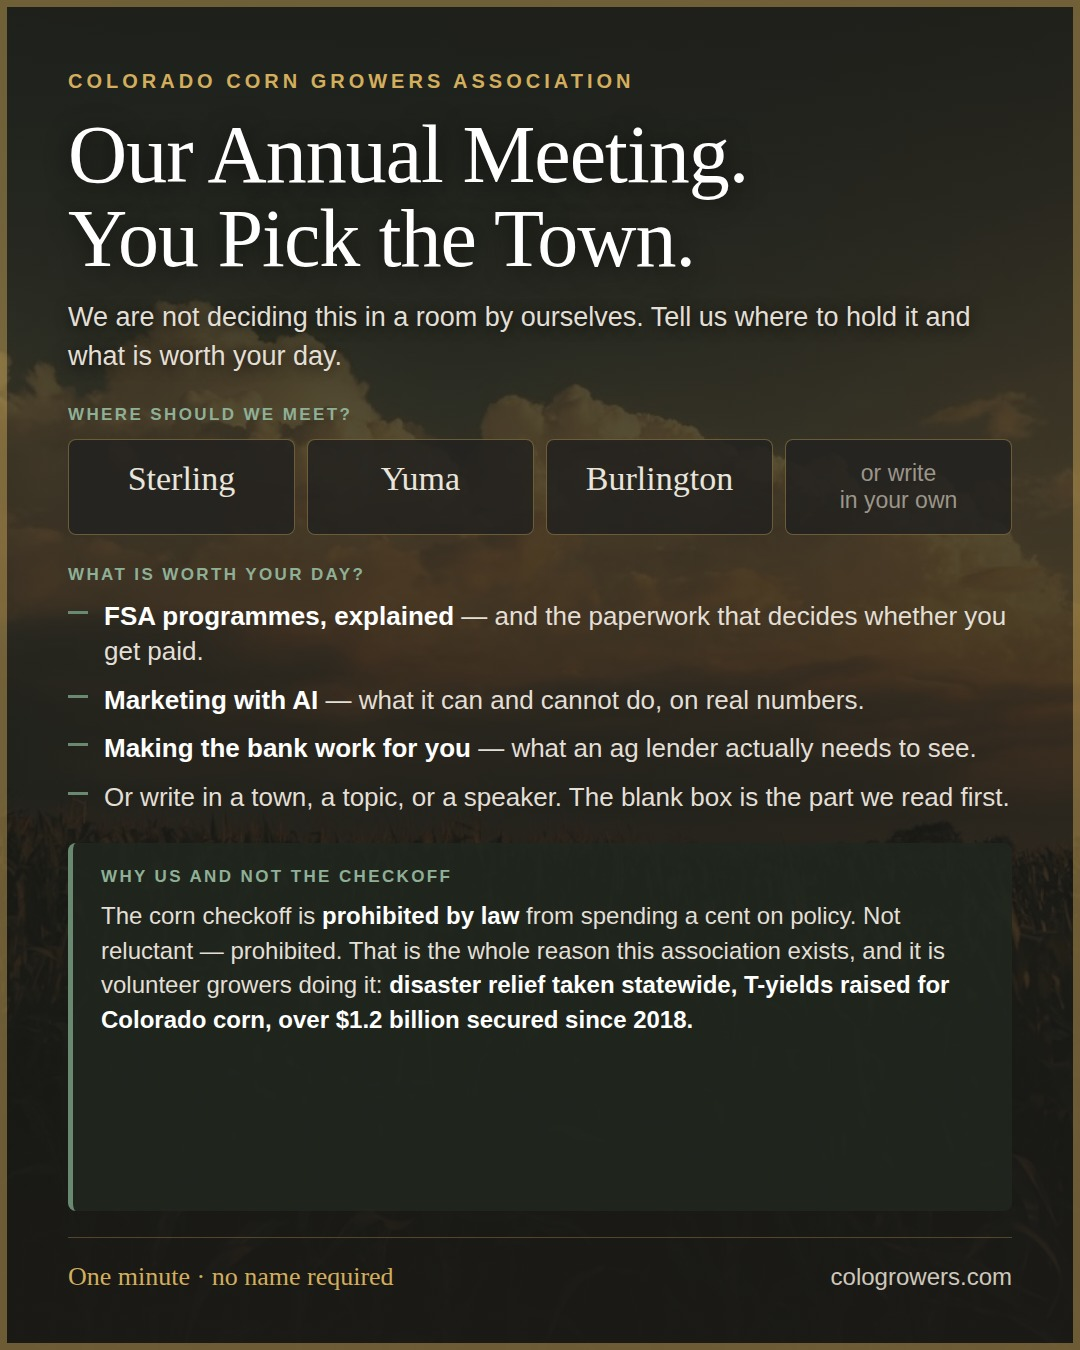
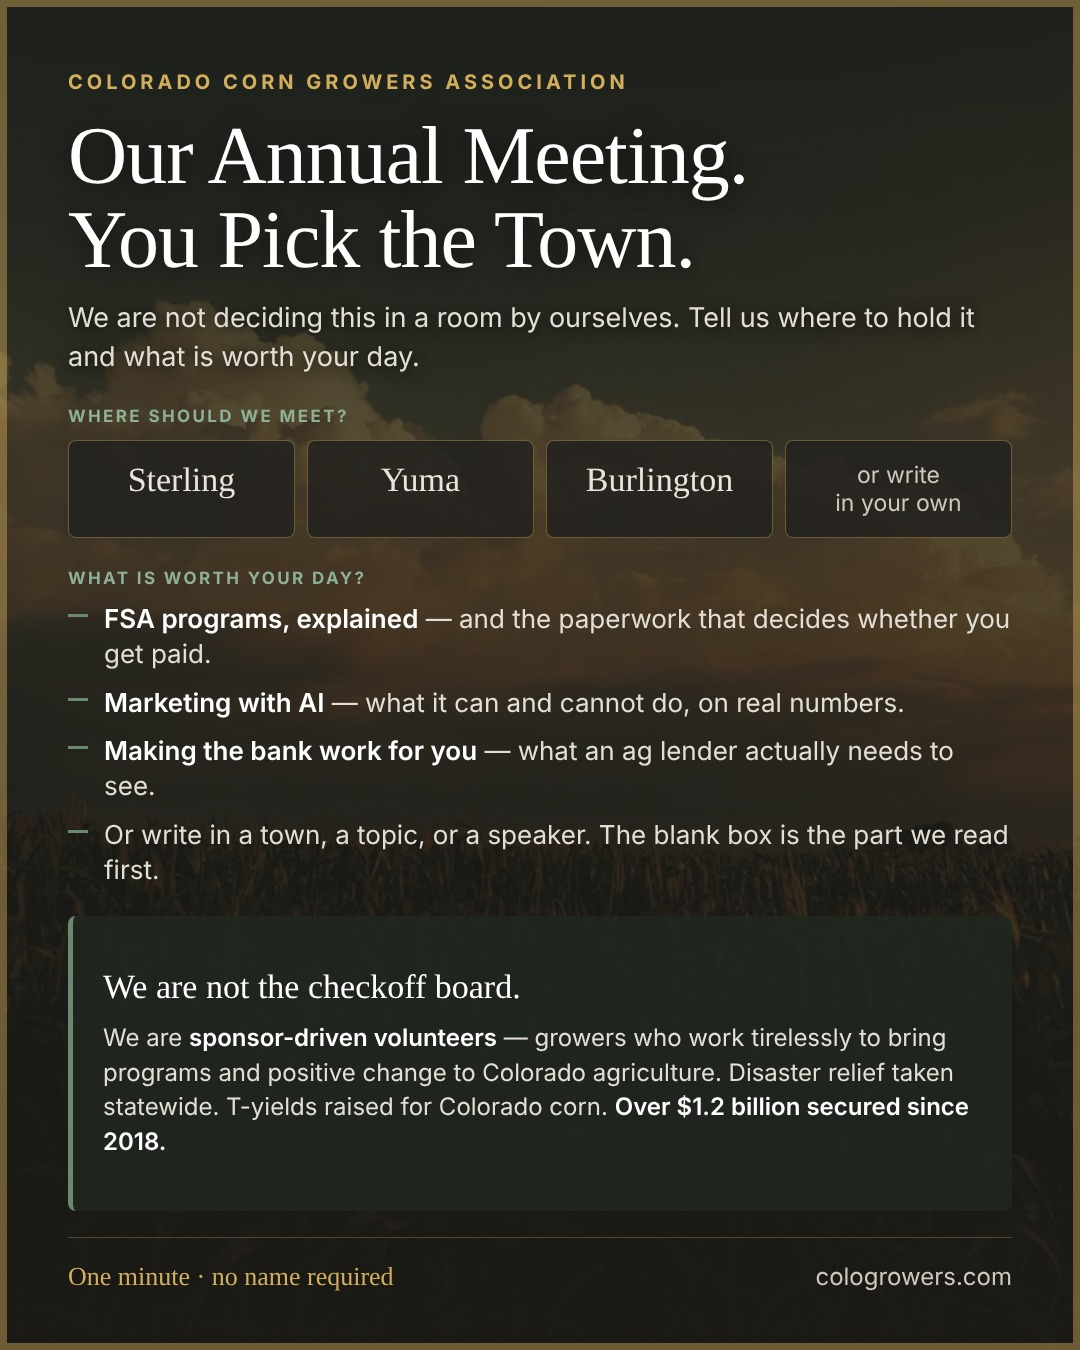
Reframe the meeting card and rebuild the sponsor band around a $10k cap (#53)
CARD AND PAGE now lead with what we are rather than what we are not.
"We are not the checkoff board. We are sponsor-driven volunteers" --
growers who work tirelessly to bring programs and positive change to
Colorado agriculture. The legal point about the checkoff being barred
from policy spending is still there, because it is the specific answer
to the question growers actually ask, but it now supports the claim
instead of being the headline. Fixed a leftover fragment from the stitch
on the page.

SPONSOR BAND rebuilt for a $10,000 top tier: three Champion slots and
four Advocacy at $5,000, with Supporting at $2,500 named in the footer.
That tops out around $65,000, which is the room needed to clear $50,000
without having to sell every slot.

Open slots now read "This could be your ad" rather than "This space is
open." A prospect should picture their own logo in the gap, not read a
vacancy notice.

Named the industries we are actually calling on -- banks, energy and
fuel, equipment and irrigation dealers, car dealerships -- with the
reason they should care: they already do business with these operations,
and this is the association that keeps them farming.

Contrast passes; 24 tests pass.

diff --git a/index.html b/index.html
@@ -558,6 +558,8 @@
         .row-1 { grid-template-columns: 1fr; }
         .row-2 { grid-template-columns: 1fr 1fr; }
         .row-3 { grid-template-columns: 1fr 1fr 1fr; }
+        .row-4 { grid-template-columns: repeat(4, 1fr); }
+        .row-4 .slot { min-height: 96px; padding: 1.2rem 0.8rem; }
         .slot { display: flex; flex-direction: column; align-items: center; justify-content: center;
                 text-align: center; border-radius: 6px; padding: 1.6rem 1.2rem;
                 text-decoration: none; transition: all 0.25s ease; min-height: 118px; }
@@ -580,7 +582,7 @@
                          margin-top: 1.6rem; }
         .sponsors-foot a { color: #8a6a22; font-weight: 600; }
         @media (max-width: 860px) {
-            .row-2, .row-3 { grid-template-columns: 1fr; }
+            .row-2, .row-3, .row-4 { grid-template-columns: 1fr; }
             .sponsors { padding: 2.5rem 1.2rem; }
         }
 
@@ -938,55 +940,64 @@
         </div>
     </section>
 
-    <!-- Sponsor band. Slot prices live here and on Pages/become-a-sponsor.html;
-         change them in both places. -->
+    <!-- Sponsor band. Top tier is capped at $10,000; slot prices live here and
+         on Pages/become-a-sponsor.html, so change them in both places.
+         Three Champion plus four Advocacy plus six Supporting tops out at
+         $65,000, which is the room needed to clear $50,000 without selling
+         every slot. -->
     <section class="sponsors" id="sponsors">
         <div class="sponsors-inner">
             <p class="sponsors-label">Our Sponsors</p>
-            <p class="sponsors-sub">This association takes no checkoff money. Everything it does is
-                paid for by the businesses and growers below.</p>
+            <p class="sponsors-sub">We are not the checkoff board. We are sponsor-driven volunteers,
+                and everything this association does is paid for by the businesses and growers
+                below.</p>
 
-            <div class="sponsor-row row-1">
+            <div class="sponsor-row row-3">
                 <a class="slot filled" href="https://acreprofit.com" target="_blank" rel="noopener">
-                    <span class="slot-tier">Presenting Partner</span>
+                    <span class="slot-tier">Champion Partner</span>
                     <span class="slot-name">AcreProfit</span>
                     <span class="slot-go">acreprofit.com &rarr;</span>
                 </a>
-            </div>
-
-            <div class="sponsor-row row-2">
                 <a class="slot open" href="Pages/become-a-sponsor.html">
                     <span class="slot-tier">Champion Partner</span>
-                    <span class="slot-here">This space is open</span>
+                    <span class="slot-here">This could be your ad</span>
                     <span class="slot-price">$10,000 a year</span>
                 </a>
                 <a class="slot open" href="Pages/become-a-sponsor.html">
                     <span class="slot-tier">Champion Partner</span>
-                    <span class="slot-here">This space is open</span>
+                    <span class="slot-here">This could be your ad</span>
                     <span class="slot-price">$10,000 a year</span>
                 </a>
             </div>
 
-            <div class="sponsor-row row-3">
+            <div class="sponsor-row row-4">
                 <a class="slot open" href="Pages/become-a-sponsor.html">
-                    <span class="slot-tier">Advocacy Partner</span>
-                    <span class="slot-here">This space is open</span>
-                    <span class="slot-price">$5,000 a year</span>
+                    <span class="slot-tier">Advocacy</span>
+                    <span class="slot-here">Your ad here</span>
+                    <span class="slot-price">$5,000</span>
                 </a>
                 <a class="slot open" href="Pages/become-a-sponsor.html">
-                    <span class="slot-tier">Advocacy Partner</span>
-                    <span class="slot-here">This space is open</span>
-                    <span class="slot-price">$5,000 a year</span>
+                    <span class="slot-tier">Advocacy</span>
+                    <span class="slot-here">Your ad here</span>
+                    <span class="slot-price">$5,000</span>
                 </a>
                 <a class="slot open" href="Pages/become-a-sponsor.html">
-                    <span class="slot-tier">Advocacy Partner</span>
-                    <span class="slot-here">This space is open</span>
-                    <span class="slot-price">$5,000 a year</span>
+                    <span class="slot-tier">Advocacy</span>
+                    <span class="slot-here">Your ad here</span>
+                    <span class="slot-price">$5,000</span>
+                </a>
+                <a class="slot open" href="Pages/become-a-sponsor.html">
+                    <span class="slot-tier">Advocacy</span>
+                    <span class="slot-here">Your ad here</span>
+                    <span class="slot-price">$5,000</span>
                 </a>
             </div>
 
-            <p class="sponsors-foot">Your logo on every page of this site, and your name attached to
-                the work. <a href="Pages/become-a-sponsor.html">See what each level includes &rarr;</a></p>
+            <p class="sponsors-foot"><strong>Banks, energy and fuel companies, equipment and
+                irrigation dealers, car dealerships.</strong> You already do business with these
+                operations &mdash; this is the association that keeps them farming, and your name
+                sits beside that work on every page. Supporting partnerships start at $2,500.
+                <a href="Pages/become-a-sponsor.html">See what each level includes &rarr;</a></p>
         </div>
     </section>
 

diff --git a/Pages/annual-meeting.html b/Pages/annual-meeting.html
@@ -429,18 +429,21 @@
 
         <h2>First, Who You Would Be Spending the Day With</h2>
 
-        <p>There is a thing growers say to us at meetings, and it is usually some version of
-            <em>I already pay the checkoff, why am I being asked for anything else.</em> It is a fair
-            question with a specific answer.</p>
+        <p><strong>We are not the checkoff board.</strong> We are sponsor-driven volunteers &mdash;
+            corn producers who work tirelessly to bring programs and positive change to Colorado
+            agriculture, paid for by the businesses and growers who back us rather than by any
+            automatic assessment.</p>
 
-        <p><strong>The corn checkoff is prohibited by law from spending a cent on policy.</strong>
-            Not reluctant &mdash; prohibited. It funds research and promotion, and it does that
-            work well, but it cannot call a congressional office about a farm bill, cannot argue a
-            disaster title, and cannot put a producer in front of the people writing the rules.
-            That is not a criticism of the council. It is the statute.</p>
+        <p>Growers ask us about this at meetings, usually some version of <em>I already pay the
+            checkoff, why am I being asked for anything else.</em> It is a fair question with a
+            specific answer. <strong>The checkoff is prohibited by law from spending a cent on
+            policy.</strong> It funds research and promotion and does that work well, but it cannot
+            call a congressional office about a farm bill, cannot argue a disaster title, and cannot
+            put a producer in front of the people writing the rules. That is not a criticism of the
+            council. It is the statute &mdash; and it is the gap this association was built to
+            fill.</p>
 
-        <p>Which is the whole reason this association exists, and it is volunteer corn producers
-            doing it. What that has looked like:</p>
+        <p>That work is done by volunteer corn producers. What it has looked like:</p>
 
         <ul>
             <li><strong>Disaster relief went statewide.</strong> The excessive heat case carried
